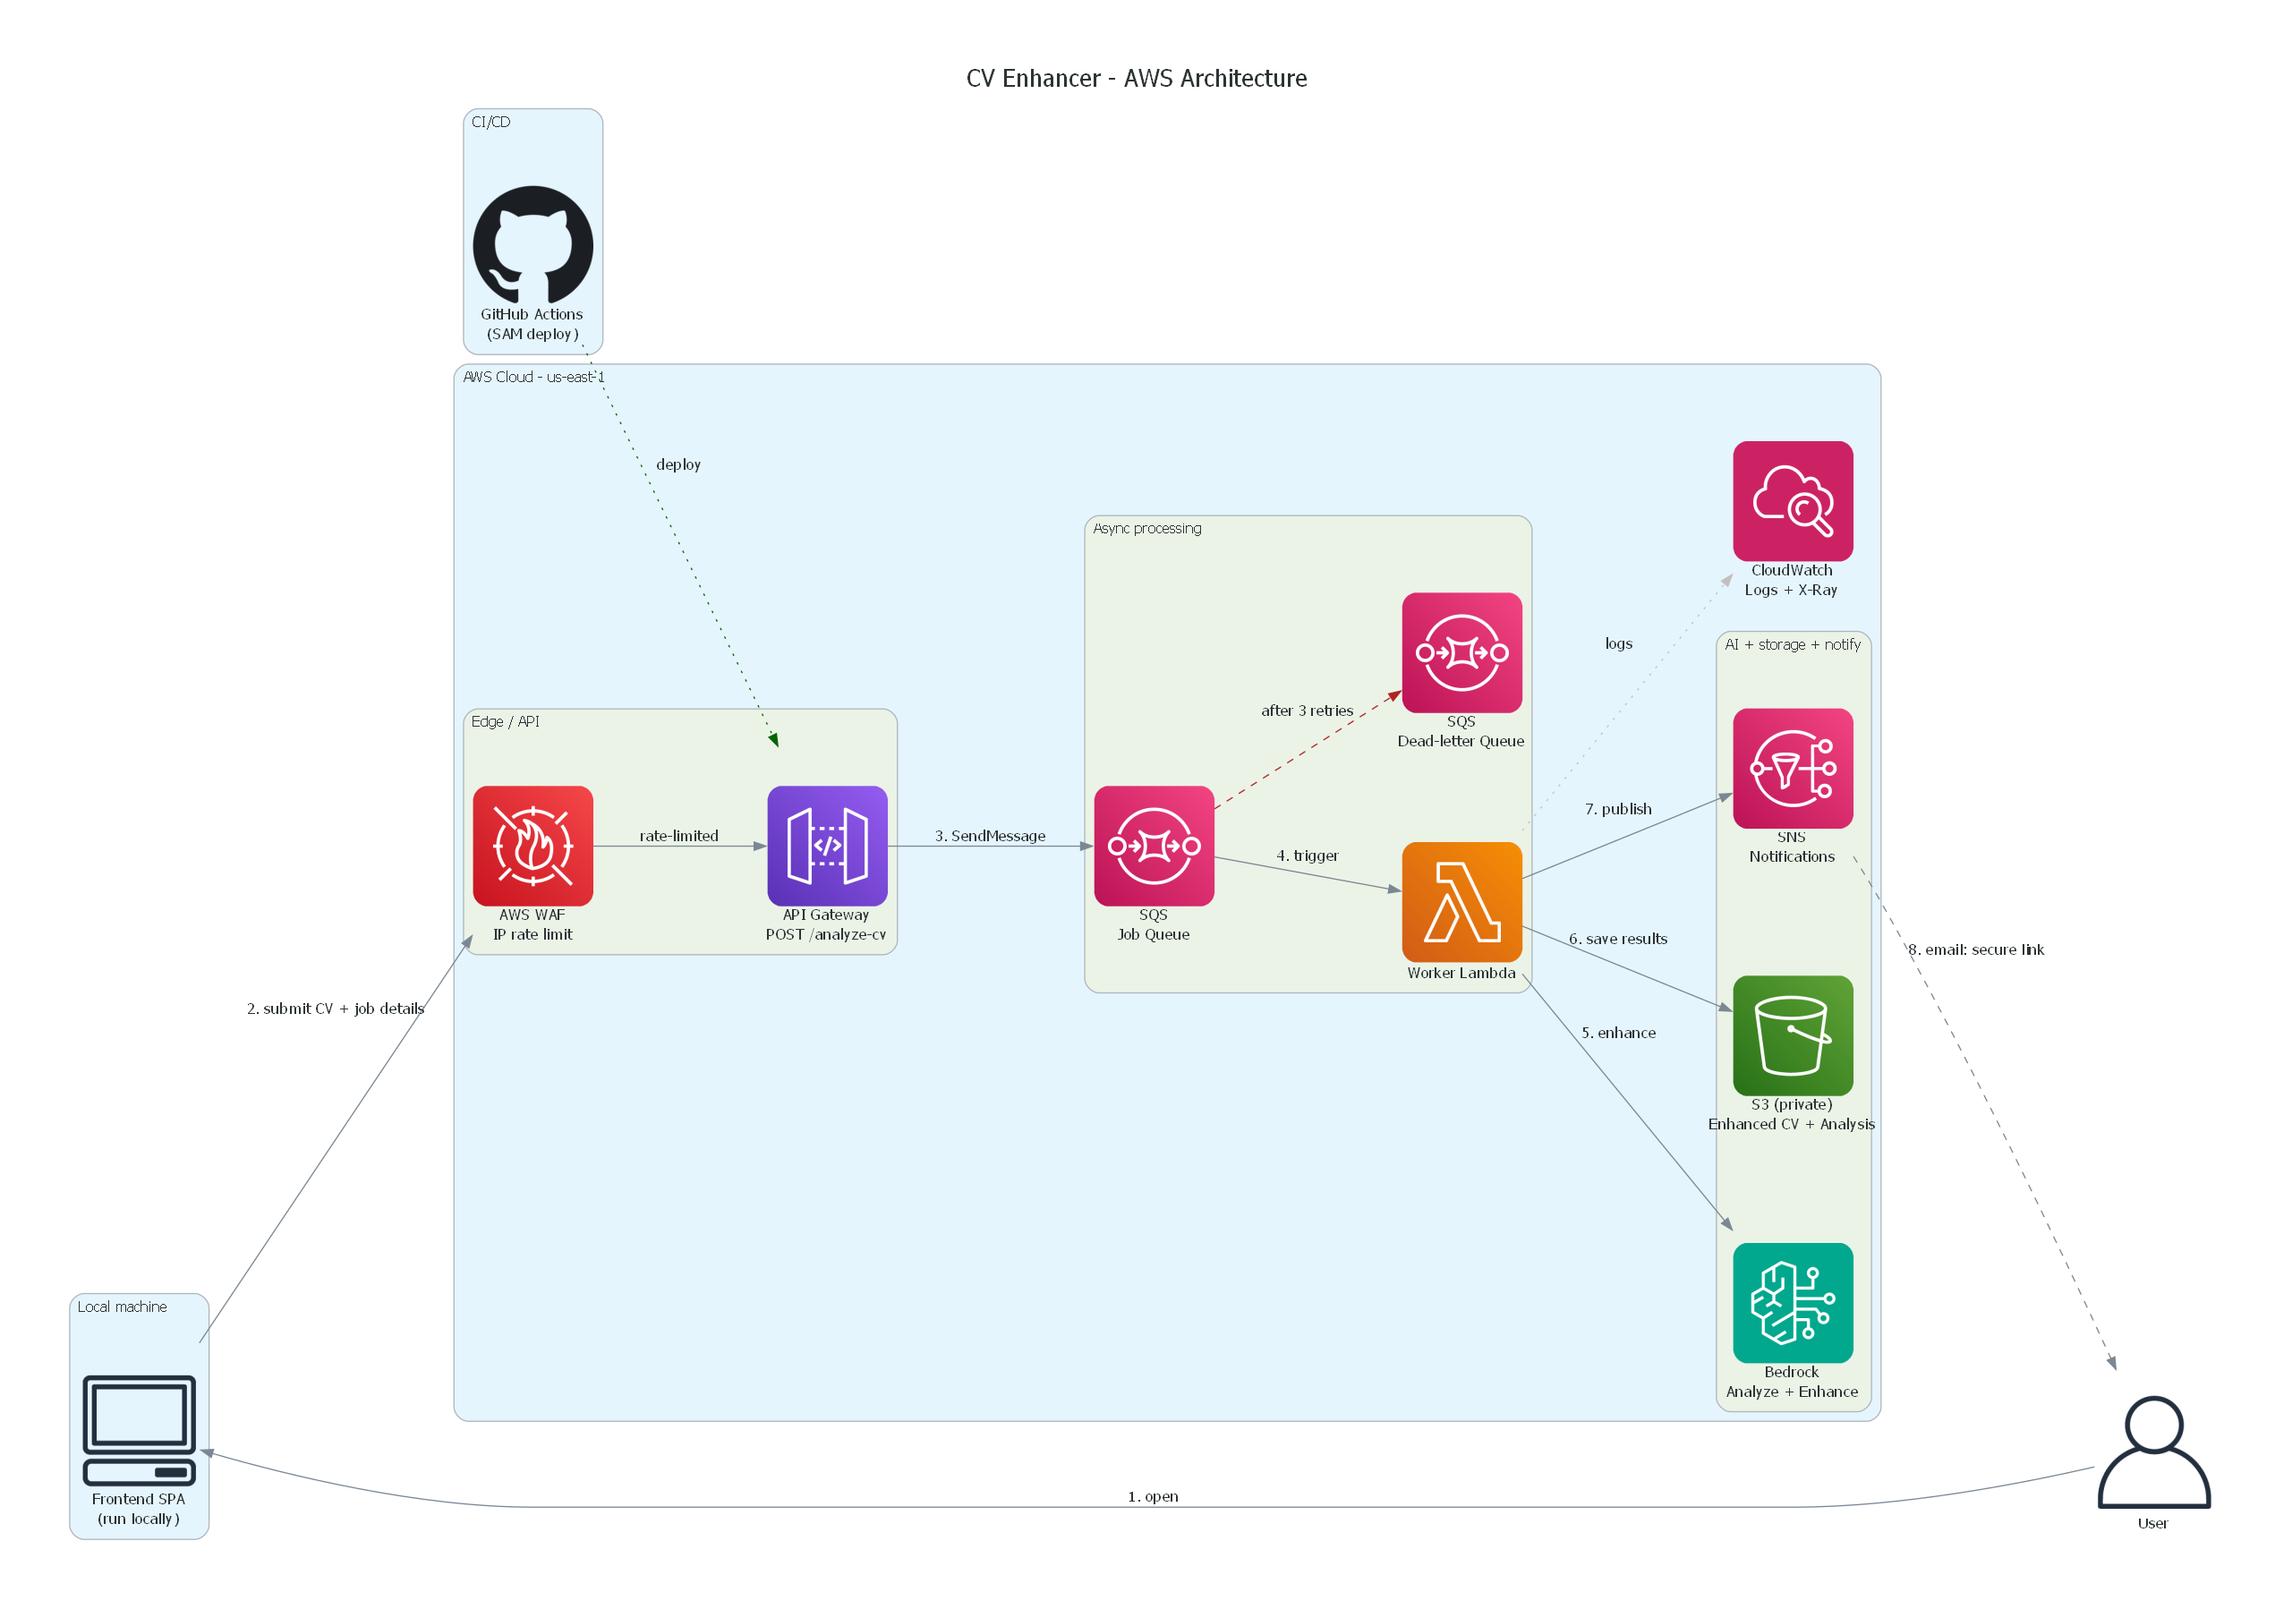
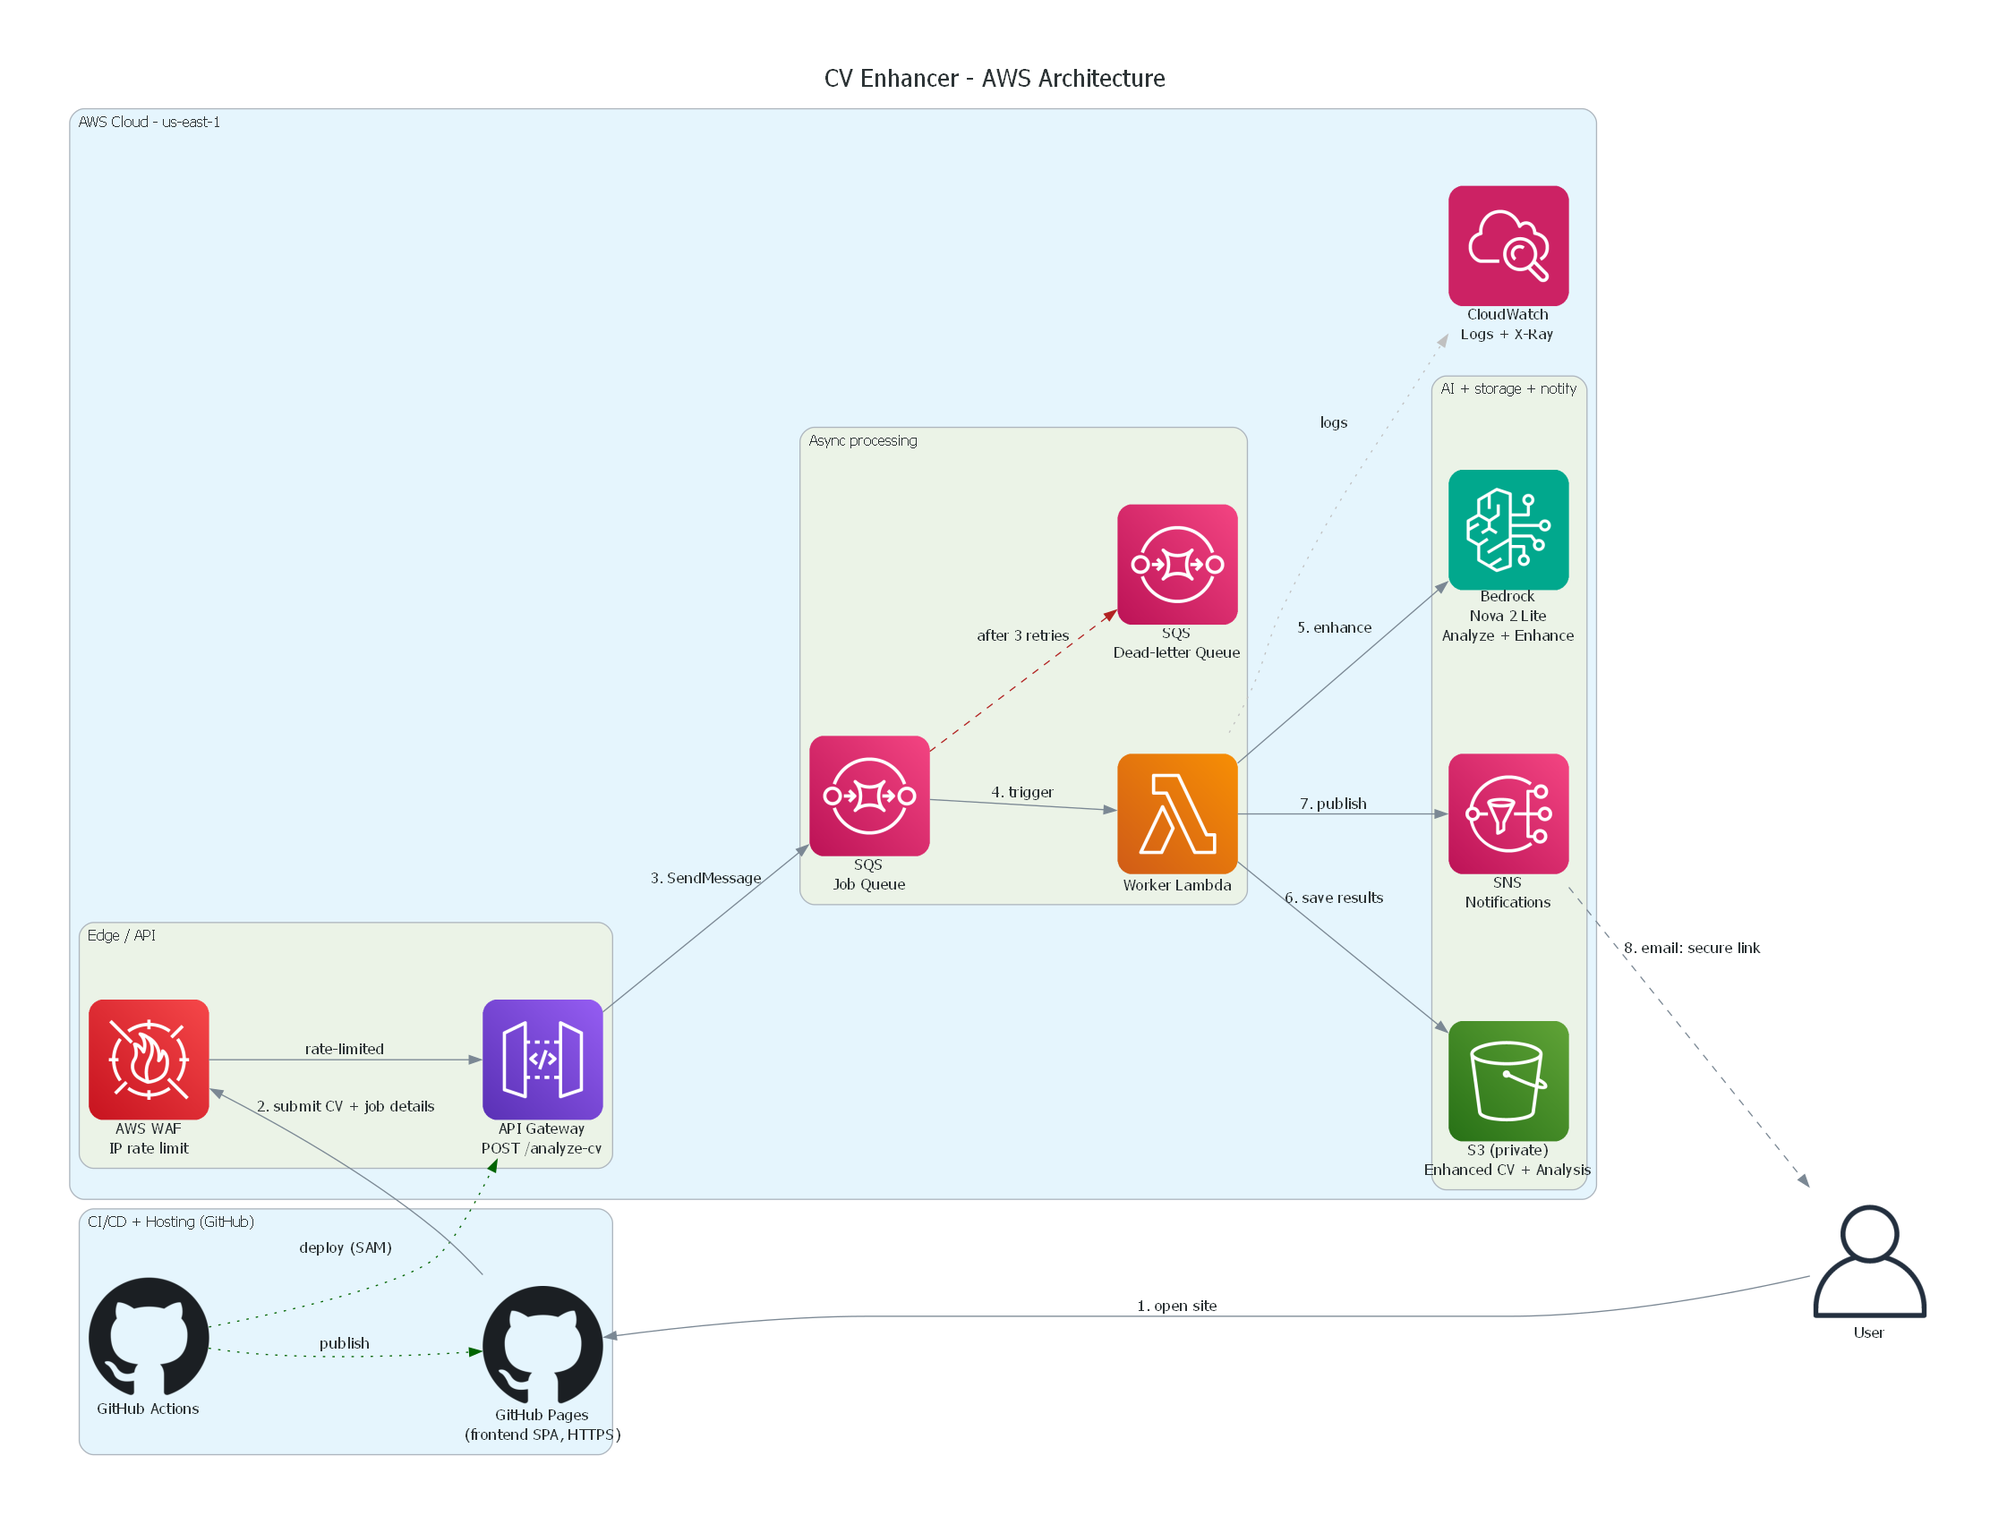
Update architecture diagram: GitHub Pages frontend + Nova 2 Lite

diff --git a/diagram/architecture.py b/diagram/architecture.py
@@ -21,7 +21,7 @@ from diagrams.aws.storage import SimpleStorageServiceS3
 from diagrams.aws.network import APIGateway
 from diagrams.aws.security import WAF
 from diagrams.aws.management import Cloudwatch
-from diagrams.onprem.client import User, Client
+from diagrams.onprem.client import User
 from diagrams.onprem.vcs import Github
 
 graph_attr = {
@@ -43,11 +43,9 @@ with Diagram(
 ):
     user = User("User")
 
-    with Cluster("Local machine"):
-        spa = Client("Frontend SPA\n(run locally)")
-
-    with Cluster("CI/CD"):
-        gh = Github("GitHub Actions\n(SAM deploy)")
+    with Cluster("CI/CD + Hosting (GitHub)"):
+        gh = Github("GitHub Actions")
+        pages = Github("GitHub Pages\n(frontend SPA, HTTPS)")
 
     with Cluster("AWS Cloud - us-east-1"):
         with Cluster("Edge / API"):
@@ -60,15 +58,15 @@ with Diagram(
             dlq = SimpleQueueServiceSqs("SQS\nDead-letter Queue")
 
         with Cluster("AI + storage + notify"):
-            bedrock = Bedrock("Bedrock\nAnalyze + Enhance")
+            bedrock = Bedrock("Bedrock\nNova 2 Lite\nAnalyze + Enhance")
             results = SimpleStorageServiceS3("S3 (private)\nEnhanced CV + Analysis")
             topic = SimpleNotificationServiceSns("SNS\nNotifications")
 
         logs = Cloudwatch("CloudWatch\nLogs + X-Ray")
 
         # Request flow
-        user >> Edge(label="1. open") >> spa
-        spa >> Edge(label="2. submit CV + job details") >> waf
+        user >> Edge(label="1. open site") >> pages
+        pages >> Edge(label="2. submit CV + job details") >> waf
         waf >> Edge(label="rate-limited") >> api
         api >> Edge(label="3. SendMessage") >> queue
         queue >> Edge(label="4. trigger") >> worker
@@ -81,5 +79,6 @@ with Diagram(
         queue >> Edge(label="after 3 retries", style="dashed", color="firebrick") >> dlq
         worker >> Edge(style="dotted", color="gray", label="logs") >> logs
 
-    # CI/CD deploys the backend stack
-    gh >> Edge(style="dotted", color="darkgreen", label="deploy") >> api
+    # CI/CD: GitHub Actions deploys the backend stack and publishes the frontend
+    gh >> Edge(style="dotted", color="darkgreen", label="deploy (SAM)") >> api
+    gh >> Edge(style="dotted", color="darkgreen", label="publish") >> pages
